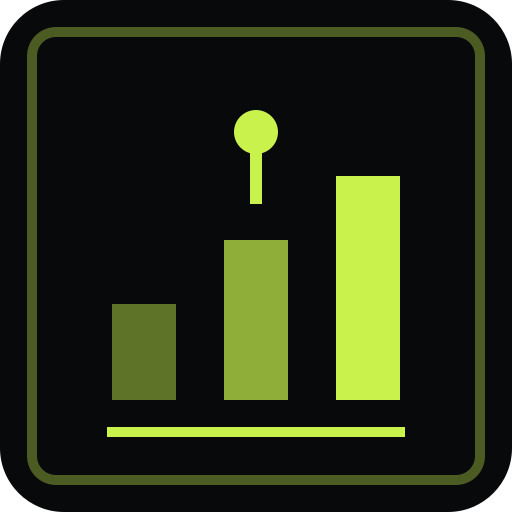
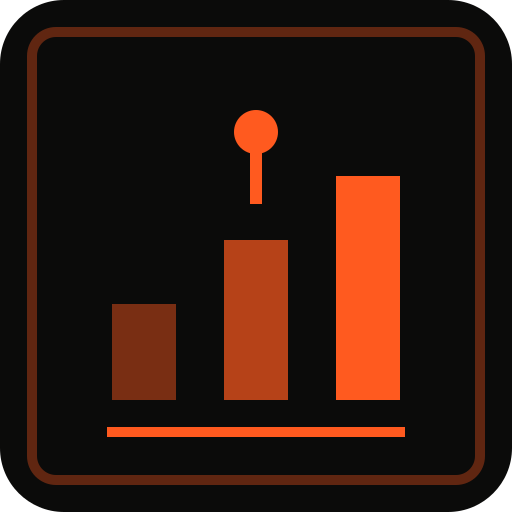
Reskin PWA in the landing's dark-room style

diff --git a/web-app/src/index.css b/web-app/src/index.css
@@ -1,21 +1,35 @@
+@import url("https://fonts.googleapis.com/css2?family=Inter+Tight:wght@400;500;600;700;900&display=swap");
 @import "tailwindcss";
 
 @theme {
-  --color-ink-950: #08090b;
-  --color-ink-900: #0d0f12;
-  --color-ink-850: #111418;
-  --color-ink-800: #151a1f;
-  --color-ink-700: #20262d;
-  --color-ink-600: #2c343d;
-  --color-ink-500: #59636f;
+  /* Palette shared with the landing (landing/index.html). */
+  --color-ink-950: #0b0b0a;
+  --color-ink-900: #171613;
+  --color-ink-850: #1b1916;
+  --color-ink-800: #211f1b;
+  --color-ink-700: #292620;
+  --color-ink-600: #302c25;
+  --color-ink-500: #8e8980;
 
-  --color-accent-300: #e4ff9c;
-  --color-accent-400: #c9f24d;
-  --color-accent-500: #a8d63a;
-  --color-accent-600: #7ea827;
+  --color-accent-300: #ff8a5c;
+  --color-accent-400: #ff5a1f;
+  --color-accent-500: #e04a12;
+  --color-accent-600: #b83a0c;
 
-  --font-sans: ui-sans-serif, system-ui, -apple-system, "Segoe UI", Roboto,
-    "Helvetica Neue", Arial, "Noto Sans", sans-serif;
+  /* Warm neutrals: every existing text-zinc-* / bg-zinc-* class now matches
+     the dark-room landing instead of Tailwind's cool gray. */
+  --color-zinc-100: #f2f0eb;
+  --color-zinc-200: #e6e1d8;
+  --color-zinc-300: #d4cec3;
+  --color-zinc-400: #b8b4ac;
+  --color-zinc-500: #8e8980;
+  --color-zinc-600: #6f6a61;
+  --color-zinc-700: #55514a;
+  --color-zinc-800: #3a3630;
+  --color-zinc-900: #26231f;
+
+  --font-sans: "Inter Tight", ui-sans-serif, system-ui, -apple-system,
+    "Segoe UI", Roboto, "Helvetica Neue", Arial, "Noto Sans", sans-serif;
   --font-mono: ui-monospace, "Cascadia Mono", "Segoe UI Mono", "SFMono-Regular",
     Menlo, Consolas, monospace;
 }
@@ -33,7 +47,7 @@ html {
 body {
   margin: 0;
   background: var(--color-ink-950);
-  color: #e6e8ea;
+  color: #f2f0eb;
   font-family: var(--font-sans);
   -webkit-font-smoothing: antialiased;
   text-rendering: optimizeLegibility;
@@ -46,7 +60,7 @@ button {
 
 ::selection {
   background: var(--color-accent-400);
-  color: var(--color-ink-950);
+  color: #100b08;
 }
 
 * {
@@ -67,11 +81,11 @@ button {
   background: transparent;
 }
 
-/* Instrument-panel grid behind the app surface. */
+/* Instrument-panel grid behind the app surface, tinted with the accent. */
 .tech-grid {
   background-image:
-    linear-gradient(to right, rgba(201, 242, 77, 0.05) 1px, transparent 1px),
-    linear-gradient(to bottom, rgba(201, 242, 77, 0.05) 1px, transparent 1px);
+    linear-gradient(to right, rgba(255, 90, 31, 0.045) 1px, transparent 1px),
+    linear-gradient(to bottom, rgba(255, 90, 31, 0.045) 1px, transparent 1px);
   background-size: 28px 28px;
 }
 
@@ -113,7 +127,7 @@ button {
 
 @layer components {
   .btn-primary {
-    @apply inline-flex items-center justify-center gap-2 border border-accent-400 bg-accent-400 px-4 font-mono text-[11px] font-bold uppercase tracking-[0.12em] text-ink-950 transition hover:bg-accent-300 active:translate-y-px disabled:cursor-not-allowed disabled:border-white/10 disabled:bg-ink-800 disabled:text-zinc-600;
+    @apply inline-flex items-center justify-center gap-2 border border-accent-400 bg-accent-400 px-4 font-sans text-[13px] font-semibold tracking-[-0.01em] text-ink-950 transition hover:border-accent-300 hover:bg-accent-300 active:translate-y-px disabled:cursor-not-allowed disabled:border-white/10 disabled:bg-ink-800 disabled:text-zinc-600;
   }
 
   .btn-ghost {

diff --git a/web-app/src/components/MessageBubble.tsx b/web-app/src/components/MessageBubble.tsx
@@ -10,8 +10,8 @@ export interface MessageBubbleProps {
 }
 
 /**
- * One chat message in the instrument-panel style: device messages are dark
- * panels with a signal-lime edge, user messages are solid lime blocks.
+ * One chat message in the landing's dark-room style: device messages are warm
+ * dark panels with an orange signal, user messages are solid warm-paper blocks.
  */
 export default function MessageBubble({
   message,
@@ -25,8 +25,8 @@ export default function MessageBubble({
   if (isUser) {
     return (
       <div className="flex animate-fade-in justify-end">
-        <div className="min-w-0 max-w-[85%] border border-accent-400 bg-accent-400 px-3 py-2 text-ink-950">
-          <div className="mb-1 flex items-center justify-end gap-2 font-mono text-[9px] uppercase tracking-[0.14em] text-ink-950/60">
+        <div className="min-w-0 max-w-[85%] bg-[#e6dfd0] px-3 py-2 text-[#191612]">
+          <div className="mb-1 flex items-center justify-end gap-2 font-mono text-[9px] uppercase tracking-[0.14em] text-[#74634d]">
             <span>usr</span>
             {time ? (
               <>
@@ -47,11 +47,11 @@ export default function MessageBubble({
     <div className="flex animate-fade-in items-start gap-2">
       <div
         aria-hidden="true"
-        className="mt-0.5 flex size-7 shrink-0 items-center justify-center border border-white/10 bg-ink-900 text-accent-400"
+        className="mt-0.5 flex size-7 shrink-0 items-center justify-center border border-white/10 bg-ink-850 text-accent-400"
       >
         <Cpu className="size-3.5" />
       </div>
-      <div className="min-w-0 max-w-[85%] border border-white/10 border-l-2 border-l-accent-400 bg-ink-900/90 px-3 py-2">
+      <div className="min-w-0 max-w-[85%] bg-[#302c25] px-3 py-2">
         <div className="mb-1 flex items-center gap-2 font-mono text-[9px] uppercase tracking-[0.14em] text-zinc-500">
           <span className="text-accent-400">dev</span>
           {time ? (
@@ -63,7 +63,7 @@ export default function MessageBubble({
             </>
           ) : null}
         </div>
-        <p className="whitespace-pre-wrap break-words text-[14px] leading-relaxed text-zinc-100">
+        <p className="whitespace-pre-wrap break-words text-[14px] leading-relaxed text-[#f2f0eb]">
           {message.text}
         </p>
         {keyboard ? (

diff --git a/web-app/src/components/DeviceList.tsx b/web-app/src/components/DeviceList.tsx
@@ -59,10 +59,10 @@ export default function DeviceList({
     <section className="flex min-h-0 flex-1 flex-col overflow-hidden">
       <div className="shrink-0 px-4 pb-3 pt-4">
         <div className="flex items-baseline gap-2">
-          <h2 className="font-mono text-[11px] font-bold uppercase tracking-[0.22em] text-zinc-300">
+          <h2 className="font-sans text-[24px] font-semibold leading-none tracking-[-0.04em] text-zinc-100">
             Устройства
           </h2>
-          <span className="font-mono text-[10px] tabular-nums text-accent-400">
+          <span className="font-mono text-[11px] tabular-nums text-accent-400">
             [{String(devices.length).padStart(2, "0")}]
           </span>
         </div>
@@ -103,7 +103,7 @@ export default function DeviceList({
             <div className="flex size-12 items-center justify-center border border-white/10 bg-ink-950 text-accent-400">
               <CircuitBoard className="size-6" strokeWidth={1.6} aria-hidden="true" />
             </div>
-            <p className="font-mono text-[11px] font-bold uppercase tracking-[0.18em] text-zinc-300">
+            <p className="text-[15px] font-semibold tracking-[-0.01em] text-zinc-200">
               Нет устройств
             </p>
             <p className="max-w-[18rem] text-xs leading-relaxed text-zinc-500">
@@ -116,7 +116,7 @@ export default function DeviceList({
             <div className="flex size-11 items-center justify-center border border-white/10 bg-ink-950 text-zinc-500">
               <Search className="size-5" strokeWidth={1.6} aria-hidden="true" />
             </div>
-            <p className="font-mono text-[11px] font-bold uppercase tracking-[0.16em] text-zinc-300">
+            <p className="text-[15px] font-semibold tracking-[-0.01em] text-zinc-200">
               Ничего не найдено
             </p>
             <p className="max-w-[16rem] text-xs leading-relaxed text-zinc-500">

diff --git a/web-app/src/hooks/useDeviceChat.ts b/web-app/src/hooks/useDeviceChat.ts
@@ -89,6 +89,18 @@ function upsertMessage(messages: MsgPacket[], packet: MsgPacket): MsgPacket[] {
 }
 
 /**
+ * The LAN firmware sends ts=0 (the cloud relay normally fills it in). Stamp
+ * such packets with the receive time so day separators and clocks stay sane.
+ * For edits, keep the timestamp of the message being edited.
+ */
+function withTimestamp(messages: MsgPacket[], packet: MsgPacket): MsgPacket {
+  if (packet.ts && packet.ts > 0) return packet;
+
+  const existing = messages.find((item) => item.id === packet.id);
+  return { ...packet, ts: existing?.ts ?? Math.floor(Date.now() / 1000) };
+}
+
+/**
  * Older history goes before live messages. Messages that arrived over the
  * socket while the request was in flight win over their stored copy.
  */
@@ -152,7 +164,7 @@ export function useDeviceChat(options: UseDeviceChatOptions): UseDeviceChatResul
     const unsubscribePacket = connection.onPacket((packet: Packet) => {
       switch (packet.type) {
         case "msg":
-          setMessages((current) => upsertMessage(current, packet));
+          setMessages((current) => upsertMessage(current, withTimestamp(current, packet)));
           break;
         case "status":
           setDeviceOnline(packet.dev_online);

diff --git a/web-app/src/components/Onboarding.tsx b/web-app/src/components/Onboarding.tsx
@@ -143,10 +143,10 @@ export default function Onboarding({ defaultServerUrl, onComplete, onSkip }: Onb
         {step === 0 ? (
           <section className="animate-fade-in">
             <p className="mono-label">Шаг 01 — знакомство</p>
-            <h1 className="mt-2 text-[26px] font-semibold leading-tight tracking-tight text-white">
+            <h1 className="mt-2 text-[30px] font-semibold leading-[0.98] tracking-[-0.045em] text-white">
               Настроим ваш
               <br />
-              мессенджер
+              мессенджер<span className="text-accent-400">.</span>
             </h1>
             <p className="mt-3 text-sm leading-relaxed text-zinc-400">
               Плата и телефон будут общаться через ваш собственный релей.

diff --git a/web-app/src/components/AppHeader.tsx b/web-app/src/components/AppHeader.tsx
@@ -16,10 +16,10 @@ export default function AppHeader({ mode, onModeChange, onOpenSettings }: AppHea
           <RadioTower className="size-4" strokeWidth={2} />
         </div>
         <div className="min-w-0">
-          <h1 className="truncate font-mono text-[12px] font-bold uppercase tracking-[0.18em] text-zinc-100">
-            IoT Messenger
+          <h1 className="truncate font-sans text-[15px] font-semibold leading-none tracking-[-0.03em] text-zinc-100">
+            IoT Messenger <span className="text-accent-400">↗</span>
           </h1>
-          <p className="mt-0.5 truncate font-mono text-[9px] uppercase tracking-[0.2em] text-zinc-500">
+          <p className="mt-1 truncate font-mono text-[9px] uppercase tracking-[0.2em] text-zinc-500">
             relay client / v1
           </p>
         </div>

diff --git a/web-app/index.html b/web-app/index.html
@@ -3,11 +3,13 @@
   <head>
     <meta charset="UTF-8" />
     <meta name="viewport" content="width=device-width, initial-scale=1.0, viewport-fit=cover" />
-    <meta name="theme-color" content="#08090b" />
+    <meta name="theme-color" content="#0b0b0a" />
     <meta
       name="description"
       content="IoT Messenger — мессенджер для устройств на ESP8266 и ESP32"
     />
+    <link rel="preconnect" href="https://fonts.googleapis.com" />
+    <link rel="preconnect" href="https://fonts.gstatic.com" crossorigin />
     <meta name="apple-mobile-web-app-capable" content="yes" />
     <meta name="apple-mobile-web-app-status-bar-style" content="black-translucent" />
     <meta name="apple-mobile-web-app-title" content="IoT Messenger" />

diff --git a/web-app/src/components/ChatView.tsx b/web-app/src/components/ChatView.tsx
@@ -152,7 +152,7 @@ export default function ChatView({
         </div>
 
         <div className="min-w-0 flex-1">
-          <h2 className="truncate text-[14px] font-semibold leading-tight text-zinc-100">
+          <h2 className="truncate text-[17px] font-semibold leading-tight tracking-[-0.02em] text-zinc-100">
             {device.name}
           </h2>
           <div className="mt-0.5 flex items-center gap-1.5 font-mono text-[10px] uppercase tracking-[0.12em] text-zinc-500">

diff --git a/web-app/vite.config.ts b/web-app/vite.config.ts
@@ -23,8 +23,8 @@ export default defineConfig({
         scope: base,
         display: "standalone",
         orientation: "portrait",
-        theme_color: "#08090b",
-        background_color: "#08090b",
+        theme_color: "#0b0b0a",
+        background_color: "#0b0b0a",
         icons: [
           { src: "icon-192.png", sizes: "192x192", type: "image/png" },
           { src: "icon-512.png", sizes: "512x512", type: "image/png" },

diff --git a/web-app/src/components/DeviceCard.tsx b/web-app/src/components/DeviceCard.tsx
@@ -117,7 +117,7 @@ export default function DeviceCard({
               />
             </div>
           ) : (
-            <p className="truncate text-[13px] font-medium text-zinc-100">{device.name}</p>
+            <p className="truncate text-[14px] font-medium text-zinc-100">{device.name}</p>
           )}
 
           <p className="mt-0.5 truncate font-mono text-[10px] tracking-tight text-zinc-500">
